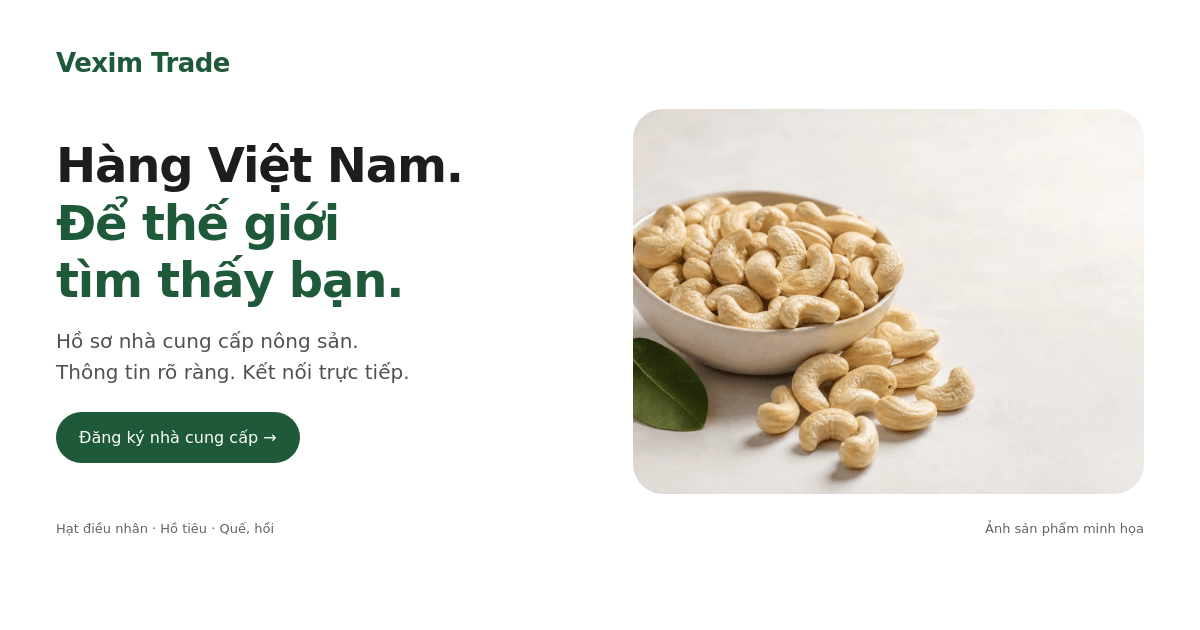
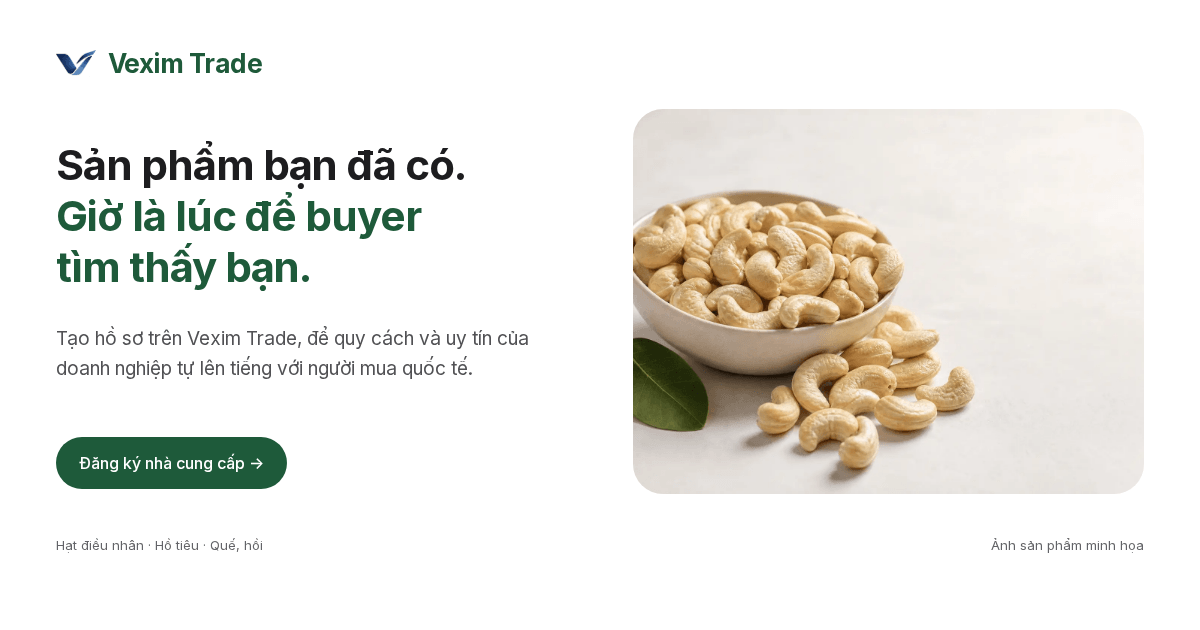
content: apply October 25 Vexim Trade copy and other-industry card

diff --git a/lib/vexim-trade-page.ts b/lib/vexim-trade-page.ts
@@ -3,6 +3,8 @@ import { buildServiceNode } from "./schema"
 import {
   TRADE,
   TRADE_CATEGORIES,
+  TRADE_OTHER_CATEGORY,
+  TRADE_SECTIONS,
   TRADE_PROBLEMS,
   TRADE_FEATURES,
   TRADE_VERIFICATION,
@@ -14,7 +16,13 @@ import {
   tradeOgDescription,
 } from "./vexim-trade-content"
 import { TRADE_CSS } from "./vexim-trade-styles"
-import { TRADE_FONT_CSS, TRADE_PRELOAD_FONT, TRADE_SCRIPT, TRADE_IMAGES, TRADE_MARK } from "./vexim-trade-assets"
+import {
+  TRADE_FONT_CSS,
+  TRADE_PRELOAD_FONT,
+  TRADE_SCRIPT,
+  TRADE_IMAGES,
+  TRADE_MARK,
+} from "./vexim-trade-assets"
 
 export const tradeCanonical = `${SITE_URL}${TRADE.path}`
 const escape = (value: unknown) =>
@@ -26,6 +34,7 @@ const paths: Record<string, string> = {
   arrow: '<path d="M5 12h14m-6-6 6 6-6 6"/>',
   specs: '<rect x="4" y="3" width="16" height="18" rx="2"/><path d="M8 8h2m4 0h2M8 12h2m4 0h2M8 16h8"/>',
   shield: '<path d="m12 3 8 3v6c0 5-8 9-8 9s-8-4-8-9V6z"/><path d="m8 12 3 3 5-6"/>',
+  season: '<path d="M4 3v17h17M7 15l4-5 4 3 5-7"/><path d="M16 6h4v4"/>',
   compare: '<path d="M4 4h6v16H4zM14 4h6v16h-6zM7 8v8m10-8v8"/>',
   mail: '<rect x="3" y="5" width="18" height="14" rx="2"/><path d="m3 6 9 7 9-7"/>',
   check: '<path d="m5 12 4 4L19 6"/>',
@@ -132,24 +141,24 @@ export function renderTradePage({
 <header class="site-header"><div class="wrap header-inner">${brand()}<nav class="desktop-nav" aria-label="Điều hướng chính">${nav}</nav>${registration("header", register, "header-register")}<details class="mobile-menu" id="mobile-menu"><summary class="menu-summary" aria-label="Mở menu điều hướng" aria-controls="mobile-nav">${icon("menu")}</summary><nav id="mobile-nav" aria-label="Điều hướng trên điện thoại">${nav}</nav></details></div></header>
 <main id="noi-dung-chinh" tabindex="-1">
 <section class="hero soft" id="top"><div class="wrap"><div class="hero-grid"><div class="hero-copy"><p class="eyebrow">Danh bạ nhà cung cấp nông sản Việt Nam</p><h1><span class="hero-intro-line">Người mua đang tìm hàng Việt Nam.</span> <br><span class="hero-accent">Hãy để họ tìm thấy doanh nghiệp bạn.</span></h1><p class="hero-description">${TRADE.hero
-    .split(/(?<=ngoài,) |(?<=sánh:) /)
+    .split(/(?<=ngoài,) |(?<=ngành,) /)
     .map((line) => `<span class="hero-copy-line">${escape(line)}</span>`)
     .join(
       " ",
     )}</p><div class="actions">${registration("hero", register)}<a href="#cach-hoat-dong" class="button outline" data-learn>Xem cách hoạt động${icon("arrow", 17)}</a></div><p class="hero-note">${icon("globe", 16)}<span>${escape(tradeCategorySummary())}</span></p></div>
-<figure class="hero-aside"><div class="hero-stage"><div class="stage-media"><img class="stage-photo" src="${TRADE_IMAGES.hero.src}" srcset="${TRADE_IMAGES.hero.srcset}" sizes="(max-width: 639px) calc(100vw - 32px), (max-width: 1279px) calc(100vw - 48px), 1200px" width="${TRADE_IMAGES.hero.width}" height="${TRADE_IMAGES.hero.height}" alt="${escape(TRADE_IMAGES.hero.alt)}" loading="lazy" decoding="async"></div><p class="stage-caption" aria-hidden="true">Từ sản phẩm tốt.<br>Đến hồ sơ rõ ràng.</p><div class="profile"><div class="profile-top"><span class="brand">${tradeMark()}<span>Vexim Trade</span></span><span class="sample-pill">HỒ SƠ NHÀ CUNG CẤP</span></div><div class="product-art"><span class="product-label">HẠT ĐIỀU NHÂN · VIỆT NAM</span>${categoryArt("cashew")}</div><div class="profile-body"><p class="origin">${icon("globe", 13)}Nhà cung cấp Việt Nam</p><p class="profile-title">Hạt điều nhân trắng</p><p class="company">Doanh nghiệp minh họa · Không phải hồ sơ thật</p><dl class="specs"><div><dt>Phân hạng ví dụ</dt><dd>WW320</dd></div><div><dt>Đóng gói</dt><dd>Theo yêu cầu</dd></div></dl><p class="sample-check">${icon("shield", 15)}Trạng thái xác minh được hiển thị riêng</p><span class="illustrated-rfq">Gửi yêu cầu báo giá${icon("arrow", 15)}</span></div></div></div><figcaption>Hồ sơ minh họa</figcaption><p class="image-disclosure">Ảnh sản phẩm minh họa do AI tạo, không đại diện nhà cung cấp cụ thể.</p></figure></div><div class="hero-bottom"><span>${icon("specs", 16)}Thông tin cụ thể, dễ đối chiếu</span><span>${icon("shield", 16)}Xác minh nhà cung cấp từng bước</span><span>${icon("direct", 16)}Kết nối thẳng với doanh nghiệp</span></div></div></section>
+<figure class="hero-aside"><div class="hero-stage"><div class="stage-media"><img class="stage-photo" src="${TRADE_IMAGES.hero.src}" srcset="${TRADE_IMAGES.hero.srcset}" sizes="(max-width: 639px) calc(100vw - 32px), (max-width: 1279px) calc(100vw - 48px), 1200px" width="${TRADE_IMAGES.hero.width}" height="${TRADE_IMAGES.hero.height}" alt="${escape(TRADE_IMAGES.hero.alt)}" loading="lazy" decoding="async"></div><p class="stage-caption" aria-hidden="true">Từ sản phẩm tốt.<br>Đến hồ sơ rõ ràng.</p><div class="profile"><div class="profile-top"><span class="brand">${tradeMark()}<span>Vexim Trade</span></span><span class="sample-pill">HỒ SƠ NHÀ CUNG CẤP</span></div><div class="product-art"><span class="product-label">HẠT ĐIỀU NHÂN · VIỆT NAM</span>${categoryArt("cashew")}</div><div class="profile-body"><p class="origin">${icon("globe", 13)}Nhà cung cấp Việt Nam</p><p class="profile-title">Hạt điều nhân trắng</p><p class="company">Doanh nghiệp minh họa</p><dl class="specs"><div><dt>Phân hạng</dt><dd>WW320</dd></div><div><dt>Đóng gói</dt><dd>Theo yêu cầu</dd></div></dl><p class="sample-check">${icon("shield", 15)}Trạng thái xác minh được hiển thị riêng</p><span class="illustrated-rfq">Gửi yêu cầu báo giá${icon("arrow", 15)}</span></div></div></div><figcaption>Hồ sơ minh họa</figcaption><p class="image-disclosure">Ảnh sản phẩm minh họa do AI tạo, không đại diện nhà cung cấp cụ thể.</p></figure></div><div class="hero-bottom"><span>${icon("specs", 16)}Thông tin cụ thể, dễ đối chiếu</span><span>${icon("shield", 16)}Xác minh nhà cung cấp từng bước</span><span>${icon("direct", 16)}Kết nối thẳng với doanh nghiệp</span></div></div></section>
 <section aria-labelledby="van-de-title"><div class="wrap"><div class="section-head"><p class="eyebrow">Từ góc nhìn người mua</p><h2 id="van-de-title">Hàng tốt chưa đủ, người mua cần đọc được hồ sơ</h2></div><div class="grid-3">${TRADE_PROBLEMS.map((item, i) => `<article class="problem"><span class="index" aria-hidden="true">0${i + 1} /</span><h3>${escape(item.title)}</h3><p>${escape(item.text)}</p></article>`).join("")}</div></div></section>
-<section class="soft" id="cach-hoat-dong" aria-labelledby="hoat-dong-title"><div class="wrap"><div class="section-head"><p class="eyebrow">Một hồ sơ. Một ngôn ngữ chung.</p><h2 id="hoat-dong-title">Hồ sơ trình bày theo cách người mua đọc và so sánh</h2></div><div class="feature-grid">${TRADE_FEATURES.map((item) => `<article class="feature"><div class="icon-box">${icon(item.icon, 24)}</div><h3>${escape(item.title)}</h3><p>${escape(item.text)}</p></article>`).join("")}</div><p class="feature-note">${icon("direct", 18)}<span>Để tìm người mua nước ngoài, hãy bắt đầu bằng thông tin họ cần. Yêu cầu báo giá được gửi trực tiếp đến doanh nghiệp bạn.</span></p></div></section>
-<section id="xac-minh" aria-labelledby="xac-minh-title"><div class="wrap verification-layout"><div class="section-head"><p class="eyebrow">Xác minh có phạm vi rõ ràng</p><h2 id="xac-minh-title">Ba bước, mỗi bước duyệt riêng</h2><p>Không gộp mọi thông tin vào một dấu xác nhận chung. Từng bước cho biết nhà cung cấp đã cung cấp loại bằng chứng nào.</p><p class="disclaimer">Vexim Trade xác minh nhà cung cấp, không chứng nhận chất lượng sản phẩm.</p></div><ol class="verification-list">${TRADE_VERIFICATION.map((item) => `<li><div><h3>${escape(item.title)}</h3><p>${escape(item.text)}</p></div></li>`).join("")}</ol></div></section>
+<section class="soft" id="cach-hoat-dong" aria-labelledby="hoat-dong-title"><div class="wrap"><div class="section-head"><p class="eyebrow">Một hồ sơ. Một ngôn ngữ chung.</p><h2 id="hoat-dong-title">Hồ sơ trình bày theo cách người mua đọc và so sánh</h2></div><div class="feature-grid">${TRADE_FEATURES.map((item) => `<article class="feature"><div class="icon-box">${icon(item.icon, 24)}</div><h3>${escape(item.title)}</h3><p>${escape(item.text)}</p></article>`).join("")}</div><p class="feature-note">${icon("direct", 18)}<span>${escape(TRADE_SECTIONS.featureNote)}</span></p></div></section>
+<section id="xac-minh" aria-labelledby="xac-minh-title"><div class="wrap verification-layout"><div class="section-head"><p class="eyebrow">Xác minh có phạm vi rõ ràng</p><h2 id="xac-minh-title">${escape(TRADE_SECTIONS.verificationTitle)}</h2><p>${escape(TRADE_SECTIONS.verificationDescription)}</p><p class="disclaimer">Vexim Trade xác minh nhà cung cấp, không chứng nhận chất lượng sản phẩm.</p></div><ol class="verification-list">${TRADE_VERIFICATION.map((item) => `<li><div><h3>${escape(item.title)}</h3><p>${escape(item.text)}</p></div></li>`).join("")}</ol></div></section>
 <section class="dark" aria-labelledby="cam-ket-title"><div class="wrap commitment-layout"><div class="section-head"><p class="eyebrow">Rõ vai trò, rõ kỳ vọng</p><h2 id="cam-ket-title">Cuộc trao đổi bắt đầu từ chỗ khác</h2><p>Từ quy cách, năng lực cung ứng và thông tin có thể đối chiếu. Để hai doanh nghiệp có cơ sở bắt đầu một cuộc trao đổi thực chất.</p></div><div><p class="commitment-title" id="khong-lam-title">Những việc Vexim Trade không làm</p><ul class="commitments" aria-labelledby="khong-lam-title">${TRADE_COMMITMENTS.map((item) => `<li>${icon("close", 20)}<div><h3>${escape(item.title)}</h3><p>${escape(item.text)}</p></div></li>`).join("")}</ul></div></div></section>
-<section id="danh-muc" aria-labelledby="danh-muc-title"><div class="wrap"><div class="section-head"><p class="eyebrow">Bắt đầu từ thế mạnh Việt Nam</p><h2 id="danh-muc-title">${escape(tradeCategoryHeading())}</h2><p>Giai đoạn đầu tập trung vào ${TRADE_CATEGORIES.length === 3 ? "ba" : TRADE_CATEGORIES.length} nhóm nông sản, để thông tin từng ngành được chuẩn bị rõ ràng ngay từ đầu.</p></div><div class="grid-3">${TRADE_CATEGORIES.map(
+<section id="danh-muc" aria-labelledby="danh-muc-title"><div class="wrap"><div class="section-head"><p class="eyebrow">${escape(TRADE_SECTIONS.categoryEyebrow)}</p><h2 id="danh-muc-title">${escape(tradeCategoryHeading())}</h2><p>${escape(TRADE_SECTIONS.categoryDescription)}</p></div><div class="grid-3 category-grid">${TRADE_CATEGORIES.map(
     (category) => {
       const href = categoryLink(category.href)
       return `<article class="category"><div class="category-art">${categoryArt(category.key)}</div><div class="category-body"><h3><span class="category-kicker">${escape(category.exportTitle)}</span>${href ? `<a href="${escape(href)}" data-category="${escape(category.key)}">${escape(category.name)}</a>` : escape(category.name)}</h3><p class="description">${escape(category.text)}</p><p class="category-specs">${escape(category.specs)}</p></div></article>`
     },
   ).join(
     "",
-  )}</div><p class="category-footnote">Nếu doanh nghiệp thuộc các danh mục đang mở, bạn có thể gửi đăng ký để Vexim Trade xem xét hồ sơ. Không có cam kết về đơn hàng hoặc thứ hạng tìm kiếm.</p></div></section>
-<section class="soft" id="dang-ky" aria-labelledby="dang-ky-title"><div class="wrap"><div class="section-head"><p class="eyebrow">Đến lượt doanh nghiệp bạn</p><h2 id="dang-ky-title">Bắt đầu trong bốn bước</h2></div><ol class="steps">${TRADE_STEPS.map((item, i) => `<li><span class="step-number" aria-hidden="true">0${i + 1}</span><h3>${escape(item.title)}</h3><p>${escape(item.text)}</p></li>`).join("")}</ol><div class="closing"><div><p class="closing-title">Để người mua bắt đầu từ một hồ sơ rõ ràng.</p><p class="small">Giới thiệu doanh nghiệp bạn trên Vexim Trade.</p></div>${registration("footer_cta", register)}</div></div></section>
-</main><footer class="site-footer"><div class="wrap"><div class="footer-grid"><div>${brand()}<p class="footer-brand-note">Danh bạ nhà cung cấp nông sản Việt Nam dành cho người mua nước ngoài.</p></div><address><strong>${escape(TRADE.legalName)}</strong>${escape(TRADE.address.streetAddress)}, ${escape(TRADE.address.addressLocality)}, ${escape(TRADE.address.addressRegion)}<br><a href="tel:${TRADE.phone}">${TRADE.phone}</a><br><a href="mailto:${TRADE.email}">${TRADE.email}</a></address><nav class="footer-links" aria-label="Liên kết pháp lý"><a href="${SITE_URL}">veximglobal.com${icon("arrow", 14)}</a>${TRADE.privacy ? `<a href="${escape(TRADE.privacy)}">Chính sách bảo mật</a>` : '<span title="Chờ đường dẫn công khai được xác nhận">Chính sách bảo mật</span>'}${TRADE.terms ? `<a href="${escape(TRADE.terms)}">Điều khoản sử dụng</a>` : '<span title="Chờ đường dẫn công khai được xác nhận">Điều khoản sử dụng</span>'}</nav></div><div class="footer-bottom"><span>© 2026 Vexim Trade · Thuộc Vexim Global</span><span>Thông tin rõ ràng. Kết nối trực tiếp.</span></div></div></footer></body></html>`
+  )}<article class="category category-other"><div class="category-art category-consult-art" aria-hidden="true">${icon("globe", 64)}</div><div class="category-body"><h3>${escape(TRADE_OTHER_CATEGORY.name)}</h3><p class="description">${escape(TRADE_OTHER_CATEGORY.text)}</p><p class="category-specs">${escape(TRADE_OTHER_CATEGORY.specs)}</p></div></article></div></div></section>
+<section class="soft" id="dang-ky" aria-labelledby="dang-ky-title"><div class="wrap"><div class="section-head"><p class="eyebrow">Đến lượt doanh nghiệp bạn</p><h2 id="dang-ky-title">Bắt đầu trong bốn bước</h2></div><ol class="steps">${TRADE_STEPS.map((item, i) => `<li><span class="step-number" aria-hidden="true">0${i + 1}</span><h3>${escape(item.title)}</h3><p>${escape(item.text)}</p></li>`).join("")}</ol><div class="closing"><div><p class="closing-title">${escape(TRADE_SECTIONS.closingTitle)}</p><p class="small">${escape(TRADE_SECTIONS.closingDescription)}</p></div>${registration("footer_cta", register)}</div></div></section>
+</main><footer class="site-footer"><div class="wrap"><div class="footer-grid"><div>${brand()}<p class="footer-brand-note">Danh bạ nhà cung cấp nông sản Việt Nam dành cho người mua nước ngoài.</p></div><address><strong>${escape(TRADE.legalName)}</strong>${escape(TRADE.address.streetAddress)}, ${escape(TRADE.address.addressLocality)}, ${escape(TRADE.address.addressRegion)}<br><a href="tel:${TRADE.phone}">${TRADE.phone}</a><br><a href="mailto:${TRADE.email}">${TRADE.email}</a></address><nav class="footer-links" aria-label="Liên kết pháp lý"><a href="${SITE_URL}">veximglobal.com${icon("arrow", 14)}</a>${TRADE.privacy ? `<a href="${escape(TRADE.privacy)}">Chính sách bảo mật</a>` : '<span title="Chờ đường dẫn công khai được xác nhận">Chính sách bảo mật</span>'}${TRADE.terms ? `<a href="${escape(TRADE.terms)}">Điều khoản sử dụng</a>` : '<span title="Chờ đường dẫn công khai được xác nhận">Điều khoản sử dụng</span>'}</nav></div><div class="footer-bottom"><span>© 2026 Vexim Trade · Thuộc Vexim Global</span></div></div></footer></body></html>`
 }

diff --git a/lib/vexim-trade-content.ts b/lib/vexim-trade-content.ts
@@ -1,4 +1,4 @@
-/** Copy and launch configuration. Missing design copy is an editorial draft for owner review. */
+/** Owner-approved copy revision, 25 October 2026. */
 export const TRADE = {
   name: "Vexim Trade",
   path: "/services/export-sales",
@@ -9,17 +9,17 @@ export const TRADE = {
   description:
     "Đưa hồ sơ doanh nghiệp nông sản Việt Nam đến người mua nước ngoài. Quy cách chuẩn ngành, xác minh từng bước, yêu cầu báo giá gửi thẳng đến doanh nghiệp.",
   h1: "Người mua đang tìm hàng Việt Nam. Hãy để họ tìm thấy doanh nghiệp bạn.",
-  hero: "Vexim Trade giới thiệu nhà cung cấp nông sản Việt Nam đến người mua nước ngoài, với hồ sơ trình bày theo cách người mua đọc và so sánh: quy cách chuẩn ngành, xác minh rõ ràng, yêu cầu báo giá gửi thẳng đến doanh nghiệp.",
+  hero: "Vexim Trade giới thiệu nhà cung cấp nông sản Việt Nam đến người mua nước ngoài, với hồ sơ trình bày theo quy cách chuẩn ngành, xác minh rõ ràng, yêu cầu báo giá gửi thẳng đến doanh nghiệp.",
   legalName: "Công ty TNHH Vexim Global",
   address: {
-    streetAddress: "Số 25/6/51 Ngõa Long, Tây Tựu",
+    streetAddress: "Số 25/6/51 Ngoạ Long, Tây Tựu",
     addressLocality: "Bắc Từ Liêm",
     addressRegion: "Hà Nội",
     addressCountry: "VN",
   },
   phone: "+84373685634",
   email: "contact@veximglobal.com",
-  updated: "2026-10-24",
+  updated: "2026-10-25",
   // Set only after the owner supplies confirmed public policy URLs.
   privacy: "",
   terms: "",
@@ -38,21 +38,21 @@ export const TRADE_CATEGORIES: readonly {
     key: "cashew",
     name: "Hạt điều nhân",
     exportTitle: "Xuất khẩu hạt điều",
-    text: "Hồ sơ dành cho doanh nghiệp xuất khẩu hạt điều, trình bày rõ phân hạng, quy cách và khả năng cung ứng.",
+    text: "Phân hạng, cỡ hạt, quy cách đóng gói và sản lượng cung ứng, trình bày theo đúng cách buyer điều thường so sánh.",
     specs: "Phân hạng · Cỡ hạt · Đóng gói",
   },
   {
     key: "pepper",
     name: "Hồ tiêu",
     exportTitle: "Xuất khẩu hồ tiêu",
-    text: "Thông tin phục vụ xuất khẩu hồ tiêu: chủng loại, dung trọng, độ ẩm và phương án đóng gói để người mua đối chiếu.",
+    text: "Chủng loại, dung trọng, độ ẩm và cách đóng bao, đủ để buyer đối chiếu ngay với yêu cầu của mình.",
     specs: "Chủng loại · Dung trọng · Độ ẩm",
   },
   {
     key: "spices",
     name: "Quế, hồi",
     exportTitle: "Xuất khẩu quế hồi",
-    text: "Hồ sơ xuất khẩu quế hồi thể hiện nguồn gốc, dạng sản phẩm, quy cách và điều kiện cung ứng thực tế.",
+    text: "Vùng nguyên liệu, dạng sản phẩm, quy cách và khả năng cung ứng thực tế của từng doanh nghiệp.",
     specs: "Nguồn gốc · Dạng sản phẩm · Quy cách",
   },
 ]
@@ -61,7 +61,7 @@ export function tradeCategorySummary() {
   return `Đang mở ${count} danh mục: ${TRADE_CATEGORIES.map((category) => category.name.toLocaleLowerCase("vi")).join("; ")}.`
 }
 export function tradeCategoryHeading() {
-  return `${TRADE_CATEGORIES.length === 3 ? "Ba" : TRADE_CATEGORIES.length} danh mục, số chỗ có hạn`
+  return "Mỗi ngành hàng, một bộ hồ sơ đúng chuẩn"
 }
 export function tradeOgDescription() {
   return `Hồ sơ nhà cung cấp trình bày theo cách người mua nước ngoài đọc và so sánh. ${tradeCategorySummary()}`
@@ -69,15 +69,15 @@ export function tradeOgDescription() {
 export const TRADE_PROBLEMS = [
   {
     title: "Thông tin thiếu cụ thể",
-    text: "Một lời giới thiệu “hàng chất lượng cao” chưa giúp người mua biết sản phẩm có phù hợp không. Họ cần quy cách, khả năng cung ứng và đầu mối liên hệ rõ ràng.",
+    text: "Một lời giới thiệu “hàng chất lượng cao” chưa giúp người mua biết sản phẩm có phù hợp hay không. Họ cần quy cách, khả năng cung ứng và đầu mối liên hệ rõ ràng.",
   },
   {
     title: "Người mua tìm trên Google",
-    text: "Khi tìm người mua nước ngoài, doanh nghiệp cũng cần nghĩ về chiều ngược lại: người mua có thể tìm và kiểm tra nhà cung cấp qua công cụ tìm kiếm.",
+    text: "Người mua quốc tế không biết doanh nghiệp của bạn là ai, điều đầu tiên họ sẽ tìm và kiểm tra nhà cung cấp qua google hay các công cụ tìm kiếm khác.",
   },
   {
-    title: "Hồ sơ cần có mặt ở đó",
-    text: "Một hồ sơ công khai, dễ đọc và có thông tin cụ thể tạo thêm điểm chạm để người mua tìm hiểu bạn. Không phải lời hứa về thứ hạng tìm kiếm hay số đơn hàng.",
+    title: "Hồ sơ chuyên nghiệp",
+    text: "Một hồ sơ chuyên nghiệp, dễ đọc và có thông tin cụ thể tạo điểm chạm để người mua tìm hiểu bạn. Không phải chỉ là lời hứa về thứ hạng tìm kiếm hay số đơn hàng.",
   },
 ] as const
 export const TRADE_FEATURES = [
@@ -87,18 +87,18 @@ export const TRADE_FEATURES = [
     icon: "specs",
   },
   {
-    title: "Xác minh từng bước",
-    text: "Giấy tờ, nhà máy và lịch sử giao hàng được xem xét riêng. Hồ sơ thể hiện rõ bước nào đã được duyệt.",
+    title: "Xác minh nhà cung cấp",
+    text: "Giấy tờ, nhà máy và lịch sử giao hàng được đội ngũ kiểm duyệt. Đảm bảo tính minh bạch và chất lượng nhà cung cấp.",
     icon: "shield",
   },
   {
-    title: "Hiển thị công bằng",
-    text: "Thông tin nhà cung cấp được trình bày theo cùng một cấu trúc, để người mua đối chiếu năng lực và mức độ phù hợp.",
-    icon: "compare",
+    title: "Biểu đồ thông tin mùa vụ",
+    text: "Thông tin mùa vụ được cập nhật thường xuyên tới người mua hàng, thúc đẩy khả năng tạo ra doanh thu tối đa.",
+    icon: "season",
   },
   {
-    title: "Báo giá gửi thẳng",
-    text: "Yêu cầu báo giá đi thẳng đến doanh nghiệp. Bạn chủ động trao đổi quy cách, giá và điều kiện hợp tác với người mua.",
+    title: "RFQ gửi trực tiếp đến Supp",
+    text: "Yêu cầu báo giá gửi thẳng đến doanh nghiệp. Bạn chủ động trao đổi quy cách, giá và điều kiện hợp tác với người mua.",
     icon: "mail",
   },
 ] as const
@@ -108,12 +108,12 @@ export const TRADE_VERIFICATION = [
     text: "Đối chiếu thông tin pháp nhân và giấy tờ doanh nghiệp cung cấp. Đây là bước kiểm tra danh tính nhà cung cấp.",
   },
   {
-    title: "Thăm nhà máy",
-    text: "Ghi nhận cơ sở và hoạt động sản xuất qua việc thăm nhà máy, theo phạm vi được thống nhất. Kết quả của bước này được duyệt riêng.",
+    title: "Xác minh nhà máy",
+    text: "Ghi nhận cơ sở và hoạt động sản xuất qua việc thăm hoặc xác minh nhà máy, theo phạm vi được thống nhất.",
   },
   {
     title: "Lịch sử giao hàng",
-    text: "Xem xét tài liệu giao hàng có thể đối chiếu, trong phạm vi doanh nghiệp được phép cung cấp. Không công bố thông tin thương mại mật.",
+    text: "Xem xét tài liệu giao hàng có thể đối chiếu, trong phạm vi doanh nghiệp được phép cung cấp. Tuyệt đối không công khai thông tin thương mại mật.",
   },
 ] as const
 /** The unapproved third claim about selling rankings is intentionally absent. */
@@ -156,3 +156,24 @@ export function buildTradeOrganization(parentId: string) {
     },
   }
 }
+
+/** Generic consultation card, not an additional confirmed product category. */
+export const TRADE_OTHER_CATEGORY = {
+  name: "Ngành hàng khác",
+  text: "Chưa thấy ngành hàng của bạn? Cứ gửi đăng ký, đội ngũ Vexim Trade sẽ xem hồ sơ và trao đổi về mẫu thông tin phù hợp.",
+  specs: "Liên hệ tư vấn",
+} as const
+
+export const TRADE_SECTIONS = {
+  featureNote:
+    "Hãy tiếp cận buyer bằng thông tin họ cần. Quy cách rõ ràng, nhà cung cấp đã được xác minh, mùa vụ cập nhật đều đặn. Buyer có thể gửi RFQ cho bạn ngay.",
+  verificationTitle: "Ba bước xét duyệt nâng cao uy tín",
+  verificationDescription:
+    "Uy tín không nằm ở lời giới thiệu, mà ở những gì kiểm chứng được. Bước nào bạn hoàn thành, hồ sơ ghi nhận bước đó, để buyer yên tâm ngay từ lần đầu tìm hiểu.",
+  categoryEyebrow: "Thế mạnh nông sản Việt Nam",
+  categoryDescription:
+    "Mỗi ngành hàng có mẫu hồ sơ riêng, theo đúng những thông số buyer quốc tế quen hỏi. Dưới đây là một số ngành hàng tiêu biểu, danh mục vẫn đang tiếp tục mở rộng.",
+  closingTitle: "Sản phẩm bạn đã có. Giờ là lúc để buyer tìm thấy bạn.",
+  closingDescription:
+    "Tạo hồ sơ trên Vexim Trade, để quy cách và uy tín của doanh nghiệp tự lên tiếng với người mua quốc tế.",
+} as const

diff --git a/lib/vexim-trade-styles.ts b/lib/vexim-trade-styles.ts
@@ -737,6 +737,26 @@ section[aria-labelledby="van-de-title"] {
 #danh-muc .section-head {
   max-width: 820px;
 }
+/* Four cards: three confirmed product categories plus a generic consultation card. */
+#danh-muc .category-grid {
+  grid-template-columns: repeat(2, minmax(0, 1fr));
+}
+.category-art.category-consult-art {
+  display: flex;
+  align-items: center;
+  justify-content: center;
+  color: var(--primary);
+  background: linear-gradient(135deg, #edf4ee, #f5f5f7);
+}
+.category-art.category-consult-art svg {
+  width: 72px;
+  height: 72px;
+}
+@media (max-width: 639px) {
+  #danh-muc .category-grid {
+    grid-template-columns: minmax(0, 1fr);
+  }
+}
 .category {
   border-radius: 24px;
   background: var(--bg-soft);

diff --git a/docs/vexim-trade.md b/docs/vexim-trade.md
@@ -23,14 +23,14 @@ Theo yêu cầu tiếp theo của chủ website, giao diện đã chuyển sang 
 - OG dùng ảnh/thiết kế mới, vẫn **PNG 1200×630 khoảng 90 KiB** để tương thích chia sẻ mạng xã hội. OG không tải trong lượt đọc trang bình thường.
 - Không thêm thư viện animation, parallax, video, slideshow hay JavaScript nặng. Nội dung, CTA đăng ký/UTM, schema và các giới hạn nghiệp vụ không đổi.
 
-## Nội dung và tài sản cần duyệt
+## Nội dung đã được cập nhật ngày 25/10/2026
 
-Chưa có link Canvas; chủ website cho phép dựng theo đặc tả và đề xuất phần còn thiếu. Các câu đã cung cấp được giữ nguyên. Những đoạn bổ sung ở phần vấn đề, tính năng, xác minh, hai cam kết và bốn bước là **bản biên tập đề xuất**, không phải bản thiết kế đã đối chiếu hoặc bằng chứng về hệ thống đang vận hành.
+Chủ website đã cung cấp bản sửa đổi đầy đủ ngày 25/10/2026. Nội dung trang được thay theo bản đó, không còn dùng các đoạn biên tập đề xuất trước đây. Bản đối chiếu độc lập tại `docs/vexim-trade-copy-2026-10-25.json` lưu SEO và nội dung theo selector để kiểm thử từng phần. Chỉ sửa lỗi gõ “xác mình nhà máy” thành “xác minh nhà máy”. Việc cập nhật landing không phải bằng chứng kiểm toán các tính năng của nền tảng Trade.
 
 - Chỉ hiển thị **hai** cam kết. Câu thứ ba về bán thứ hạng chưa được phép nên không xuất hiện.
 - Hồ sơ hạt điều được ghi rõ minh họa, không phải doanh nghiệp thật; “Gửi yêu cầu báo giá” trong hình là `span`, không phải CTA, không nhận focus.
-- Logo lá cây, ảnh minh họa AI và OG là tài sản cho bản dựng, không phải ảnh nhà máy/chứng từ/khách hàng được xác minh. Không sử dụng ảnh stock thay tài liệu của chủ website.
-- Pháp nhân/địa chỉ/điện thoại/email trên landing lấy từ cấu hình Trade theo văn bản mới, khớp từng chữ với graph Trade. Footer website chính giữ thông tin đã được duyệt trước đó. Cần chủ website xác nhận lại pháp nhân và cách viết địa chỉ trước công bố chính thức.
+- Dùng biểu tượng V từ logo Vexim gốc đã duyệt. Ảnh sản phẩm AI và OG vẫn là minh họa, không phải ảnh nhà máy/chứng từ/khách hàng được xác minh. Không sử dụng ảnh stock thay tài liệu của chủ website.
+- Pháp nhân/địa chỉ/điện thoại/email trên landing lấy từ cấu hình Trade theo văn bản mới, khớp từng chữ với graph Trade. Footer website chính giữ thông tin đã được duyệt trước đó. Địa chỉ Trade theo bản mới là “Số 25/6/51 Ngoạ Long, Tây Tựu”; không đổi cách viết của pháp nhân mẹ trên website chính/FDA.
 - **Chưa có URL chính sách bảo mật và điều khoản.** Hai nhãn đang là văn bản, không tạo liên kết giả hoặc đưa ra chính sách pháp lý tự soạn. Bổ sung URL đã xác nhận tại `TRADE.privacy` và `TRADE.terms` trước mở quảng bá.
 - Chưa có URL danh mục công khai được xác nhận: tiêu đề danh mục chưa là link, vì vậy chưa có `category_click` thực tế. Khi thêm `href` hợp lệ trong cấu hình, renderer tự tạo link và sự kiện tương ứng. Hiện chỉ cho phép URL HTTPS cùng origin `https://veximtrade.com`.
 - Không đặt giá/phí, review, aggregateRating, số nhà cung cấp, số đơn hàng, huy hiệu chứng nhận sản phẩm hoặc lời hứa thứ hạng. Cần bộ phận kinh doanh xác nhận phạm vi xác minh, cơ chế hiển thị và giới hạn tiếp nhận hồ sơ trước phát hành.
@@ -90,18 +90,18 @@ npm run schema:trade
 npm run schema:export
 ```
 
-- Test Trade: HTML không hydration; 1 H1; thứ bậc heading; 9 khối; 3 href thật; copy; UTM an toàn; các cặp tương phản ≥4.5; font, hash JS, ngân sách dung lượng gồm mọi biến thể WebP, OG PNG; graph có mọi @id tham chiếu được định nghĩa; category UI/schema cùng nguồn.
+- Test Trade: HTML không hydration; 1 H1; thứ bậc heading; 9 khối; 3 href thật; copy đối chiếu fixture 25/10; UTM an toàn; các cặp tương phản ≥4.5; font, hash JS, ngân sách dung lượng gồm mọi biến thể WebP, OG PNG; graph có mọi @id tham chiếu được định nghĩa; category UI/schema cùng nguồn.
 - Test SSR: status/cache/canonical, JSON-LD khớp bản xuất, asset 200, redirect viết hoa, alias nhãn, homepage card/ảnh mới, sitemap/ngày sửa thật, robots không chặn asset.
 - Browser: 320/360/390/639/640/768/1023/1024/1440/1920px không tràn ngang; breakpoints đúng; Tab/skip link/menu/neo/sticky/Escape; font local, xác nhận glyph thực sự dùng Inter bằng CDP cho ASCII/chữ Việt NFC/NFD (không chỉ kiểm tra CSS family); không tải Next JS; đọc và mở menu được khi tắt JS; UTM; sự kiện GA/Vercel mock và mốc scroll không trùng. Không tạo đăng ký thật.
-- Ngân sách tài liệu + font + JS + **toàn bộ biến thể WebP** khoảng **309 KiB nén ước tính** (bảo thủ, tính cả ảnh ô dịch vụ trang chủ và các biến thể không tải đồng thời). Lighthouse local ghi nhận khoảng **216 KiB truyền tải** cho lượt đọc đầu. Chưa tính SDK analytics/toolbar do môi trường production/preview chèn.
-- Lighthouse mobile cục bộ với Chromium 133: **Performance 99, Accessibility 100, Best Practices 100**, LCP **2,0 giây**, CLS **0**, TBT **0 ms** ở lượt đo sau thay Inter; LCP element là H1. Đây là lab trên Next dev, không phải số liệu hiện trường hay cam kết mọi thiết bị.
+- Ngân sách tài liệu + font + JS + **toàn bộ biến thể WebP** khoảng **309 KiB nén ước tính** (bảo thủ, tính cả ảnh ô dịch vụ trang chủ và các biến thể không tải đồng thời). Lighthouse local ghi nhận khoảng **223 KiB truyền tải** cho lượt đọc đầu. Chưa tính SDK analytics/toolbar do môi trường production/preview chèn.
+- Lighthouse mobile cục bộ với Chromium 133: **Performance 99, Accessibility 100, Best Practices 100**, LCP **2,1 giây**, CLS **0**, TBT **0 ms** ở lượt đo sau cập nhật nội dung ngày 25/10/2026; LCP element là H1. Đây là lab trên Next dev, không phải số liệu hiện trường hay cam kết mọi thiết bị.
 - **SEO 69 trên staging/dev là chủ đích do meta + header noindex.** Các kiểm tra SEO khác đạt ở lần đo này; cần chạy lại Lighthouse trên production có index trước kết luận đạt SEO ≥90. Không tắt noindex staging chỉ để lấy điểm.
 - INP thực tế chưa có dữ liệu hiện trường; TBT không thay thế INP. Cần theo dõi CrUX/RUM sau đủ traffic.
 - `npm run build` hiện bị chặn ở `app/layout.tsx`: font Google của website chính không tải được trong môi trường hạn chế mạng. Landing Trade tự host font và không phụ thuộc request này. Chưa thể tuyên bố full production build đạt; TypeScript toàn repo còn lỗi ngoài phần Trade.
 
 ## Trước khi public/triển khai domain Trade
 
-- [ ] Chủ website duyệt các đoạn copy bổ sung, logo/artwork, các cam kết và thông tin pháp nhân/địa chỉ.
+- [x] Áp dụng bản nội dung mới do chủ website cung cấp ngày 25/10/2026; giữ font Inter, logo Vexim và thiết kế đã duyệt.
 - [ ] Cung cấp hai URL chính sách thực tế; chỉ thêm link danh mục khi trang đích đã public.
 - [ ] Kiểm tra trang đăng ký Trade hoạt động, nhận UTM và có thông báo/chính sách dữ liệu thích hợp. Chưa kiểm tra đăng ký thật trên hệ thống bên ngoài.
 - [ ] CI/build của toàn repo đạt trong môi trường triển khai; kiểm tra HTML, canonical/OG/schema/sitemap/cache/compression thực tế sau deploy.
@@ -122,4 +122,14 @@ npm run schema:export
 - Thay biểu tượng chiếc lá tạm bằng biểu tượng V lấy từ `public/logo.png` hiện có của website: chỉ cắt phần biểu tượng, không vẽ lại, không đổi màu hay bóp méo. Giữ chữ “Vexim Trade” bên cạnh để tránh lặp chữ Vexim trong logo gốc.
 - WebP nền trong suốt, rộng 160px, khoảng 5,5 KiB, có content hash và cache immutable. Dùng chung tại đầu trang, chân trang và mẫu hồ sơ; ảnh có kích thước cố định và `object-fit: contain`, trang vẫn đọc được khi tắt JS.
 - Favicon SVG và Apple touch icon PNG cũng dùng biểu tượng V; Organization schema trỏ tới PNG 180×180. Query phiên bản giúp tránh favicon chiếc lá còn lưu trong cache cũ.
-- Không sửa file logo gốc hoặc logo trên các trang khác. Ngân sách 309 KiB đã tính thêm WebP logo; số đo Lighthouse 99/100/100 và 216 KiB phía trên là lượt sau thay Inter, trước thay logo.
+- Không sửa file logo gốc hoặc logo trên các trang khác. Ngân sách 309 KiB đã tính thêm WebP logo; số đo Lighthouse phía trên đã được cập nhật cho bản nội dung ngày 25/10/2026.
+
+### Bản nội dung 25/10/2026
+
+- Thay mô tả hero, thẻ hồ sơ minh họa, các đoạn vấn đề/giải pháp/xác minh, tiêu đề và mô tả danh mục, CTA cuối trang, địa chỉ và chân trang theo bản mới. Giữ nguyên title, meta/OG description, H1, menu và các nội dung không đổi trong bản cung cấp.
+- Thêm tính năng “Biểu đồ thông tin mùa vụ” (icon biểu đồ) và “RFQ gửi trực tiếp đến Supp”. Đây là mô tả dịch vụ do chủ website cung cấp; không tạo biểu đồ số liệu giả hoặc xây backend RFQ trong landing.
+- Danh mục có bốn thẻ UI: ba ngành hàng hiện có và “Ngành hàng khác”, trình bày 2×2 từ 640px, một cột trên điện thoại. Thẻ tư vấn dùng đồ họa globe nhẹ, không thêm ảnh sản phẩm chưa được nêu và không khai một ngành hàng giả trong OfferCatalog. OG/hero vẫn nêu ba danh mục cụ thể đúng bản cung cấp.
+- Giữ ba ảnh WebP hạt điều, hồ tiêu, quế/hồi. Vẽ lại PNG OG với logo Vexim và lời kêu gọi mới, không dùng thông điệp cũ. Bỏ nội dung giới hạn chỗ và các đoạn cuối trang không còn trong bản mới.
+- Vẫn chỉ có ba CTA đăng ký thật; không tạo URL danh mục/chính sách/tư vấn chưa được xác nhận. Mẫu RFQ là minh họa không tương tác; nhãn minh họa và ghi chú AI còn đầy đủ.
+- `TRADE.updated = 2026-10-25`; sitemap chuyển lastmod sang ngày sửa mới. Tạo lại các bản xuất schema; chỉ thay địa chỉ của Organization Trade, không sửa thông tin Organization Vexim Global/FDA.
+- Kiểm tra lại Trade, schema, FDA, email và browser đều đạt. Lighthouse mobile Chromium 133: 99/100/100/69 (SEO staging noindex), LCP 2,1s, CLS 0, TBT 0ms, 223 KiB truyền tải. TypeScript toàn repo vẫn có 45 lỗi cũ, không có lỗi tại phần Trade; không tuyên bố toàn bộ production build đạt.

diff --git a/docs/seo/homepage-schema.md b/docs/seo/homepage-schema.md
@@ -169,7 +169,7 @@ Hai khối JSON-LD khác nhau vẫn liên kết được qua @id; không bắt b
       },
       "address": {
         "@type": "PostalAddress",
-        "streetAddress": "Số 25/6/51 Ngõa Long, Tây Tựu",
+        "streetAddress": "Số 25/6/51 Ngoạ Long, Tây Tựu",
         "addressLocality": "Bắc Từ Liêm",
         "addressRegion": "Hà Nội",
         "addressCountry": "VN"
